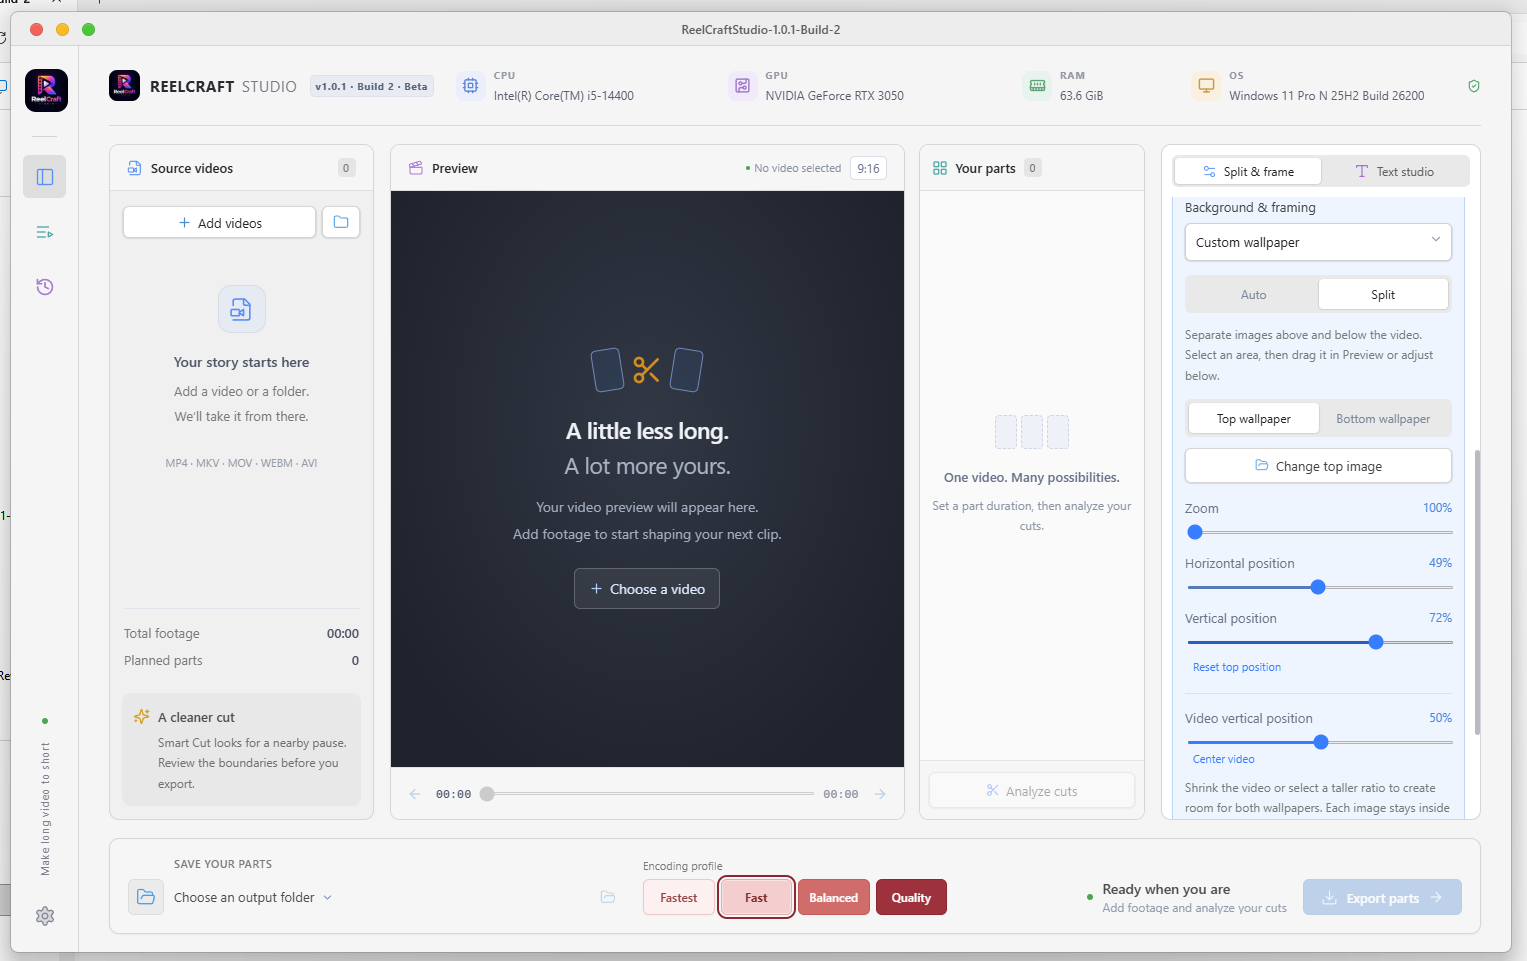
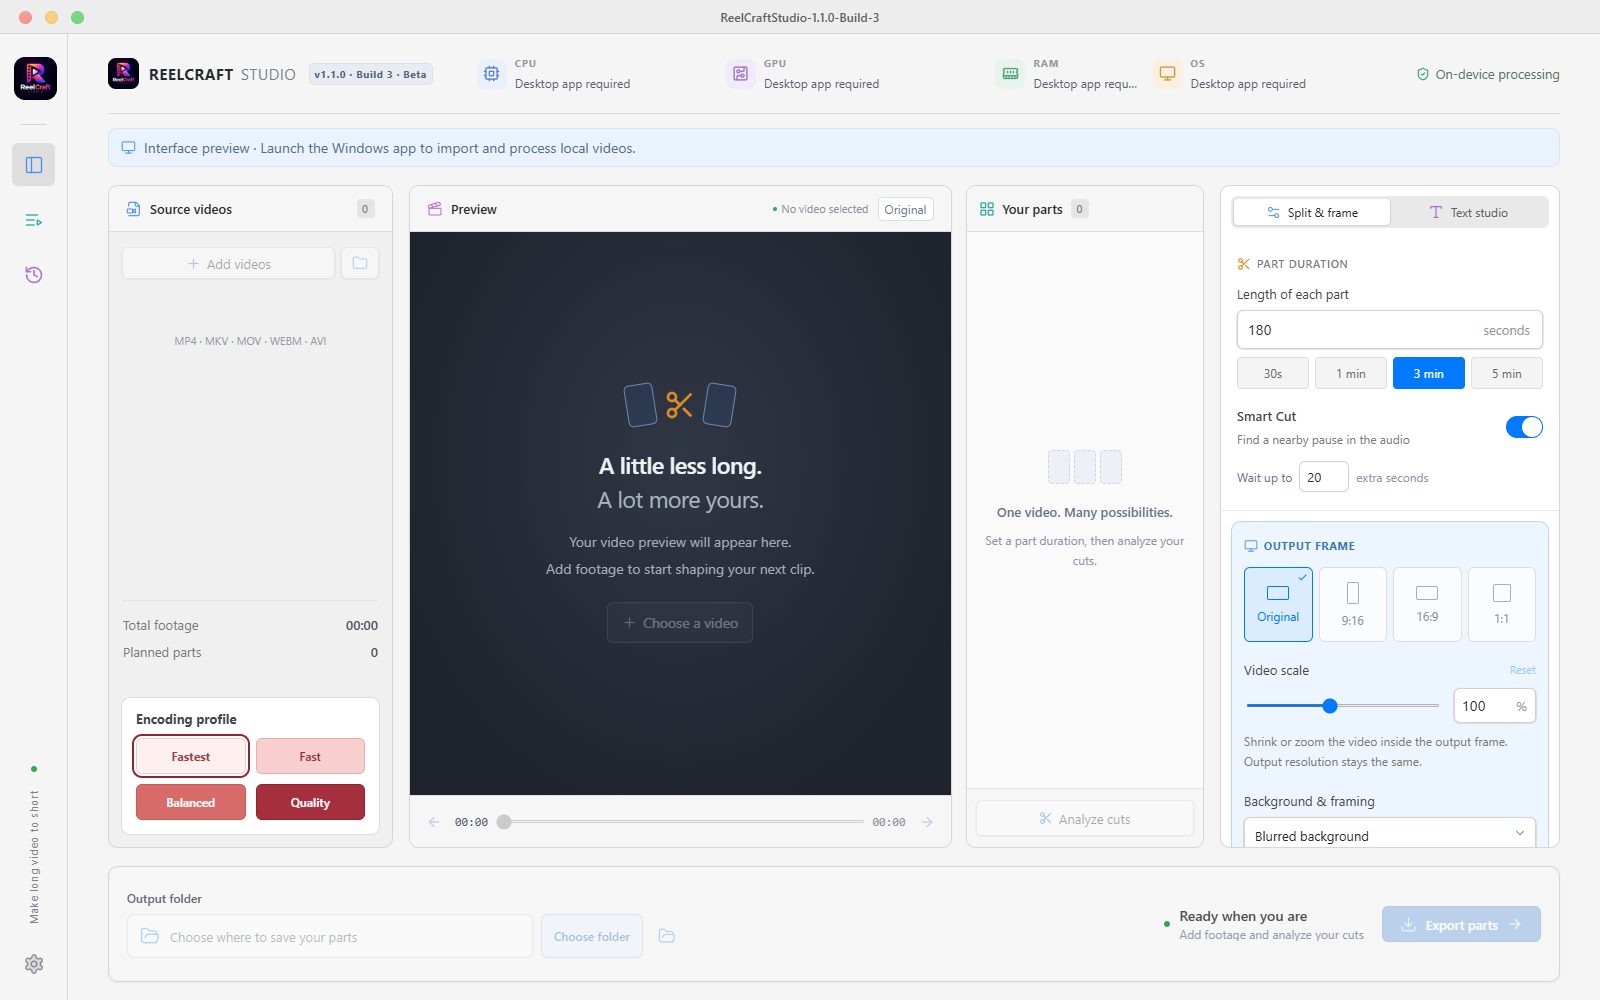
docs: refresh full-window app preview

diff --git a/src/WindowTitlebar.tsx b/src/WindowTitlebar.tsx
@@ -4,6 +4,7 @@ import { desktop } from './bridge';
 import { version, buildNumber } from '../package.json';
 
 export default function WindowTitlebar({ onError }: { onError: (message: string) => void }) {
+  const preview = new URLSearchParams(window.location.search).has('window-frame');
   async function act(action: 'close' | 'minimize' | 'maximize') {
     if (!desktop) return;
     try {
@@ -13,7 +14,8 @@ export default function WindowTitlebar({ onError }: { onError: (message: string)
       else await window.toggleMaximize();
     } catch (error) { onError(`Window control: ${error}`); }
   }
-  return <div className="mac-titlebar" data-tauri-drag-region>
+  if (!desktop && !preview) return null;
+  return <div className={`mac-titlebar ${preview && !desktop ? 'browser-window-preview' : ''}`} data-tauri-drag-region>
     <div className="traffic-lights" role="toolbar" aria-label="Window controls">
       <button className="traffic-button traffic-close" aria-label="Close window" title="Close window" disabled={!desktop} onClick={()=>void act('close')}><span className="traffic-circle"><X size={9}/></span></button>
       <button className="traffic-button traffic-minimize" aria-label="Minimize window" title="Minimize window" disabled={!desktop} onClick={()=>void act('minimize')}><span className="traffic-circle"><Minus size={9}/></span></button>

diff --git a/src/macos.css b/src/macos.css
@@ -419,6 +419,8 @@ footer, footer>button { color: var(--kit-secondary); }
 .app>.rail { top:34px; }
 .app>.workspace { height:calc(100vh - 34px); min-height:686px; }
 .mac-titlebar { position:fixed; inset:0 0 auto; height:34px; display:flex; align-items:center; justify-content:center; background:#ededee; border-bottom:1px solid #d5d5d7; z-index:60; user-select:none; -webkit-user-select:none; }
+.mac-titlebar.browser-window-preview { position:absolute; }
+.browser-window-preview .traffic-button:disabled { cursor:default; }
 .mac-window-title { color:#5a5a60; font-size:12px; font-weight:550; letter-spacing:.1px; pointer-events:auto; }
 .traffic-lights { position:absolute; left:12px; top:4px; display:flex; align-items:center; gap:0; }
 .traffic-button { display:grid; place-items:center; width:26px; height:26px; padding:0; border-radius:6px; }

diff --git a/README.md b/README.md
@@ -4,7 +4,7 @@
 
 **ဗီဒီယိုရှည်များကို အပိုင်းတိုများအဖြစ် ခွဲထုတ်ပါ။** ReelCraft Studio သည် Rust၊ Tauri နှင့် React ကို အသုံးပြုထားသော Windows အတွက် ဗီဒီယိုခွဲထုတ်သည့် desktop app ဖြစ်သည်။ ဗီဒီယိုများကို မိမိစက်ပေါ်တွင်သာ လုပ်ဆောင်ပြီး မြန်မာစာခေါင်းစဉ်နှင့် အပိုင်းနံပါတ်များ ထည့်သွင်းနိုင်သည်။ မူလ recap application ၏ ဖိုင်များကို ပြောင်းလဲရန် သို့မဟုတ် အသုံးပြုရန် မလိုအပ်ပါ။
 
-![ReelCraft Studio အသုံးပြုမျက်နှာပြင်](branding/Screenshot_288.png)
+![ReelCraft Studio full-window preview with title bar](branding/Screenshot_288.png)
 
 ## 1.1.0 · Build 3 · Beta
 

diff --git a/README.en.md b/README.en.md
@@ -20,7 +20,7 @@
 
 See [the update log](UPDATE_LOG.md) for version history.
 
-![ReelCraft Studio workspace preview](branding/Screenshot_288.png)
+![ReelCraft Studio full-window preview with title bar](branding/Screenshot_288.png)
 
 ## Run the final app
 
